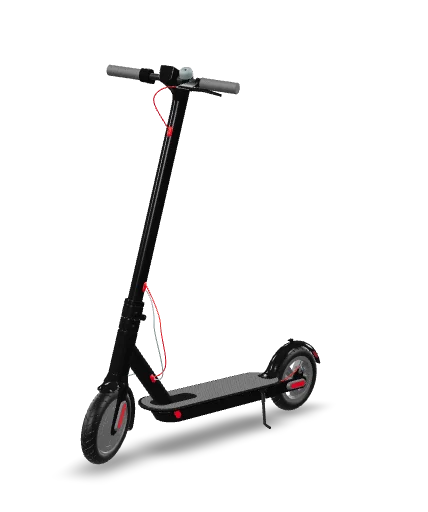
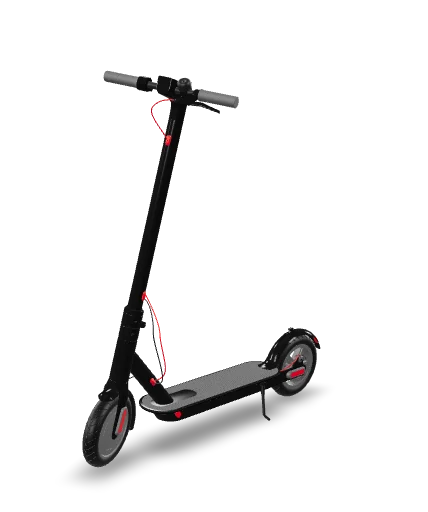
added poster to scotter

Changed region(s): [[0.1822, 0.125, 0.7593, 0.9375]]

diff --git a/files/demo-page/scotter/scotter.html b/files/demo-page/scotter/scotter.html
@@ -13,15 +13,14 @@
     width: 100%;
    height:100vh;
    margin: 0 auto;
-
   }
 </style>
 </head>
 
 <body>
-  <model-viewer id="scotter" camera-controls src="scotter_variants.gltf" ar ar-modes="webxr scene-viewer quick-look" alt="A 3D model of a scotter">
+  <model-viewer id="scotter" camera-controls enable-pan src="scotter_variants.gltf" ar ar-modes="webxr scene-viewer quick-look" poster="poster.webp" alt="A 3D model of a scotter" shadow-intensity="1" camera-orbit="20.16deg 77.52deg auto">
     <div class="controls">
-      <div>Variant: <select id="variant"></select></div>
+      <div>Variante: <select id="variant"></select></div>
     </div>
   </model-viewer>
   <script>
@@ -36,11 +35,6 @@
       option.textContent = name;
       select.appendChild(option);
     }
-    // Adds a default option.
-    const option = document.createElement('option');
-      option.value = 'default';
-      option.textContent = 'Default';
-      select.appendChild(option);
   });
   
   select.addEventListener('input', (event) => {
